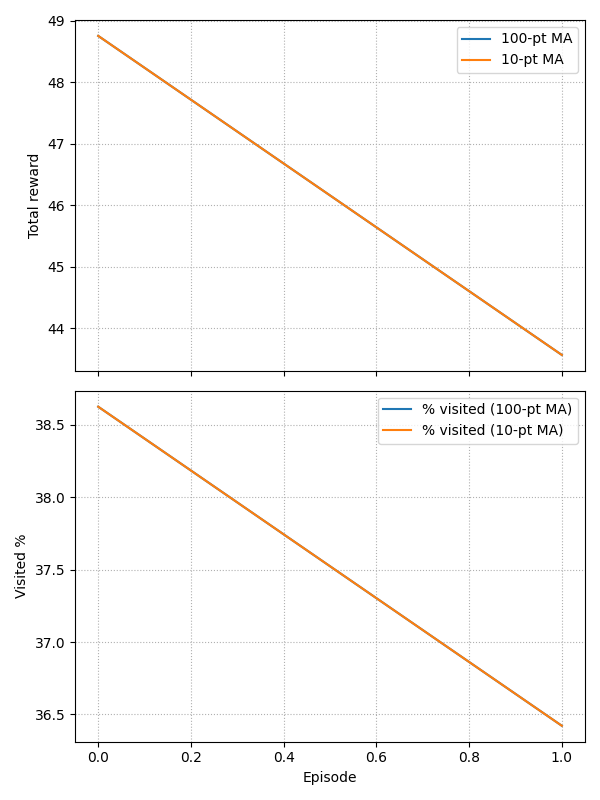
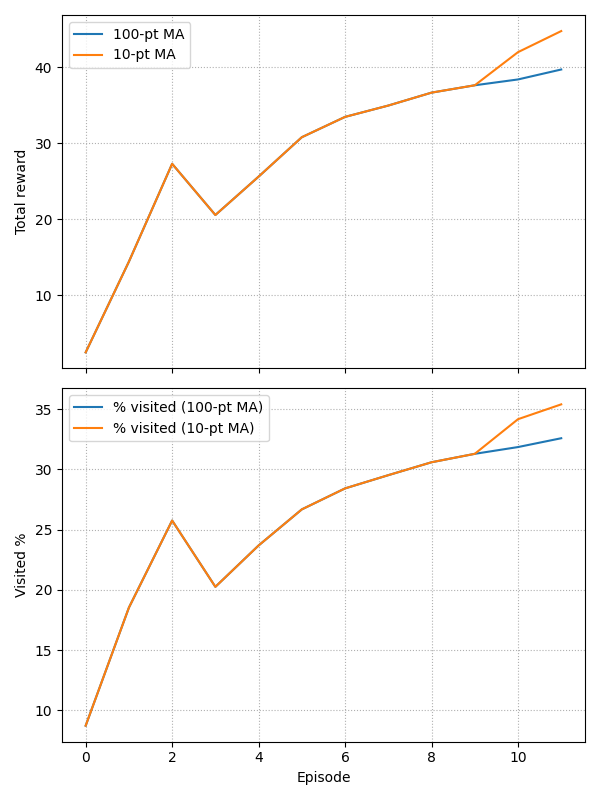
fixed map size

diff --git a/main.py b/main.py
@@ -63,14 +63,14 @@ def reset_svg():
 static_binary = svg_to_binary_grid('train-00/0000-0003.svg', grid_size=(MAXSIZE, MAXSIZE))
 def reset_svg_binary():
     mask = static_binary
-    m = Map(GRID_SIZE[0], GRID_SIZE[1], 11, MAXSIZE, MAXBANDS)
+    m = Map(mask.shape[0], mask.shape[1], 11, MAXSIZE, MAXBANDS)
     print(m.grid.shape, mask.shape)
     m.grid[:,:,0] = mask.copy() # sets walls
     
     # Start agent on a free cell
     while True:
-        startx = random.randint(0, GRID_SIZE[0]-1)
-        starty = random.randint(0, GRID_SIZE[0]-1)
+        startx = random.randint(0, mask.shape[0]-1)
+        starty = random.randint(0, mask.shape[1]-1)
         if not m.checkCollision(startx, starty):
             m.add_agent(startx, starty)
             break
@@ -102,7 +102,6 @@ currGoal = 1
 goalCount = deque(maxlen=20)
 while roundNum < 10000:
     roundNum += 1
-    m.close()
     m = reset_svg_binary()     # this may not be the portion to comment out but I think it will help establish the map as the training data? -Z
     allRewards = 0
     print("Round:", roundNum, "Epsilon:", agent.epsilon)

diff --git a/map.py b/map.py
@@ -51,7 +51,7 @@ class Map:
             cv.imshow("Environment", img)
     
     def displayBase(self,show=True):
-        cell_size = 5
+        cell_size = 1000//max(self.length, self.width)
         img = np.zeros((self.length * cell_size, self.width * cell_size, 3), np.uint8)
         for x in range(self.length):
             for y in range(self.width):